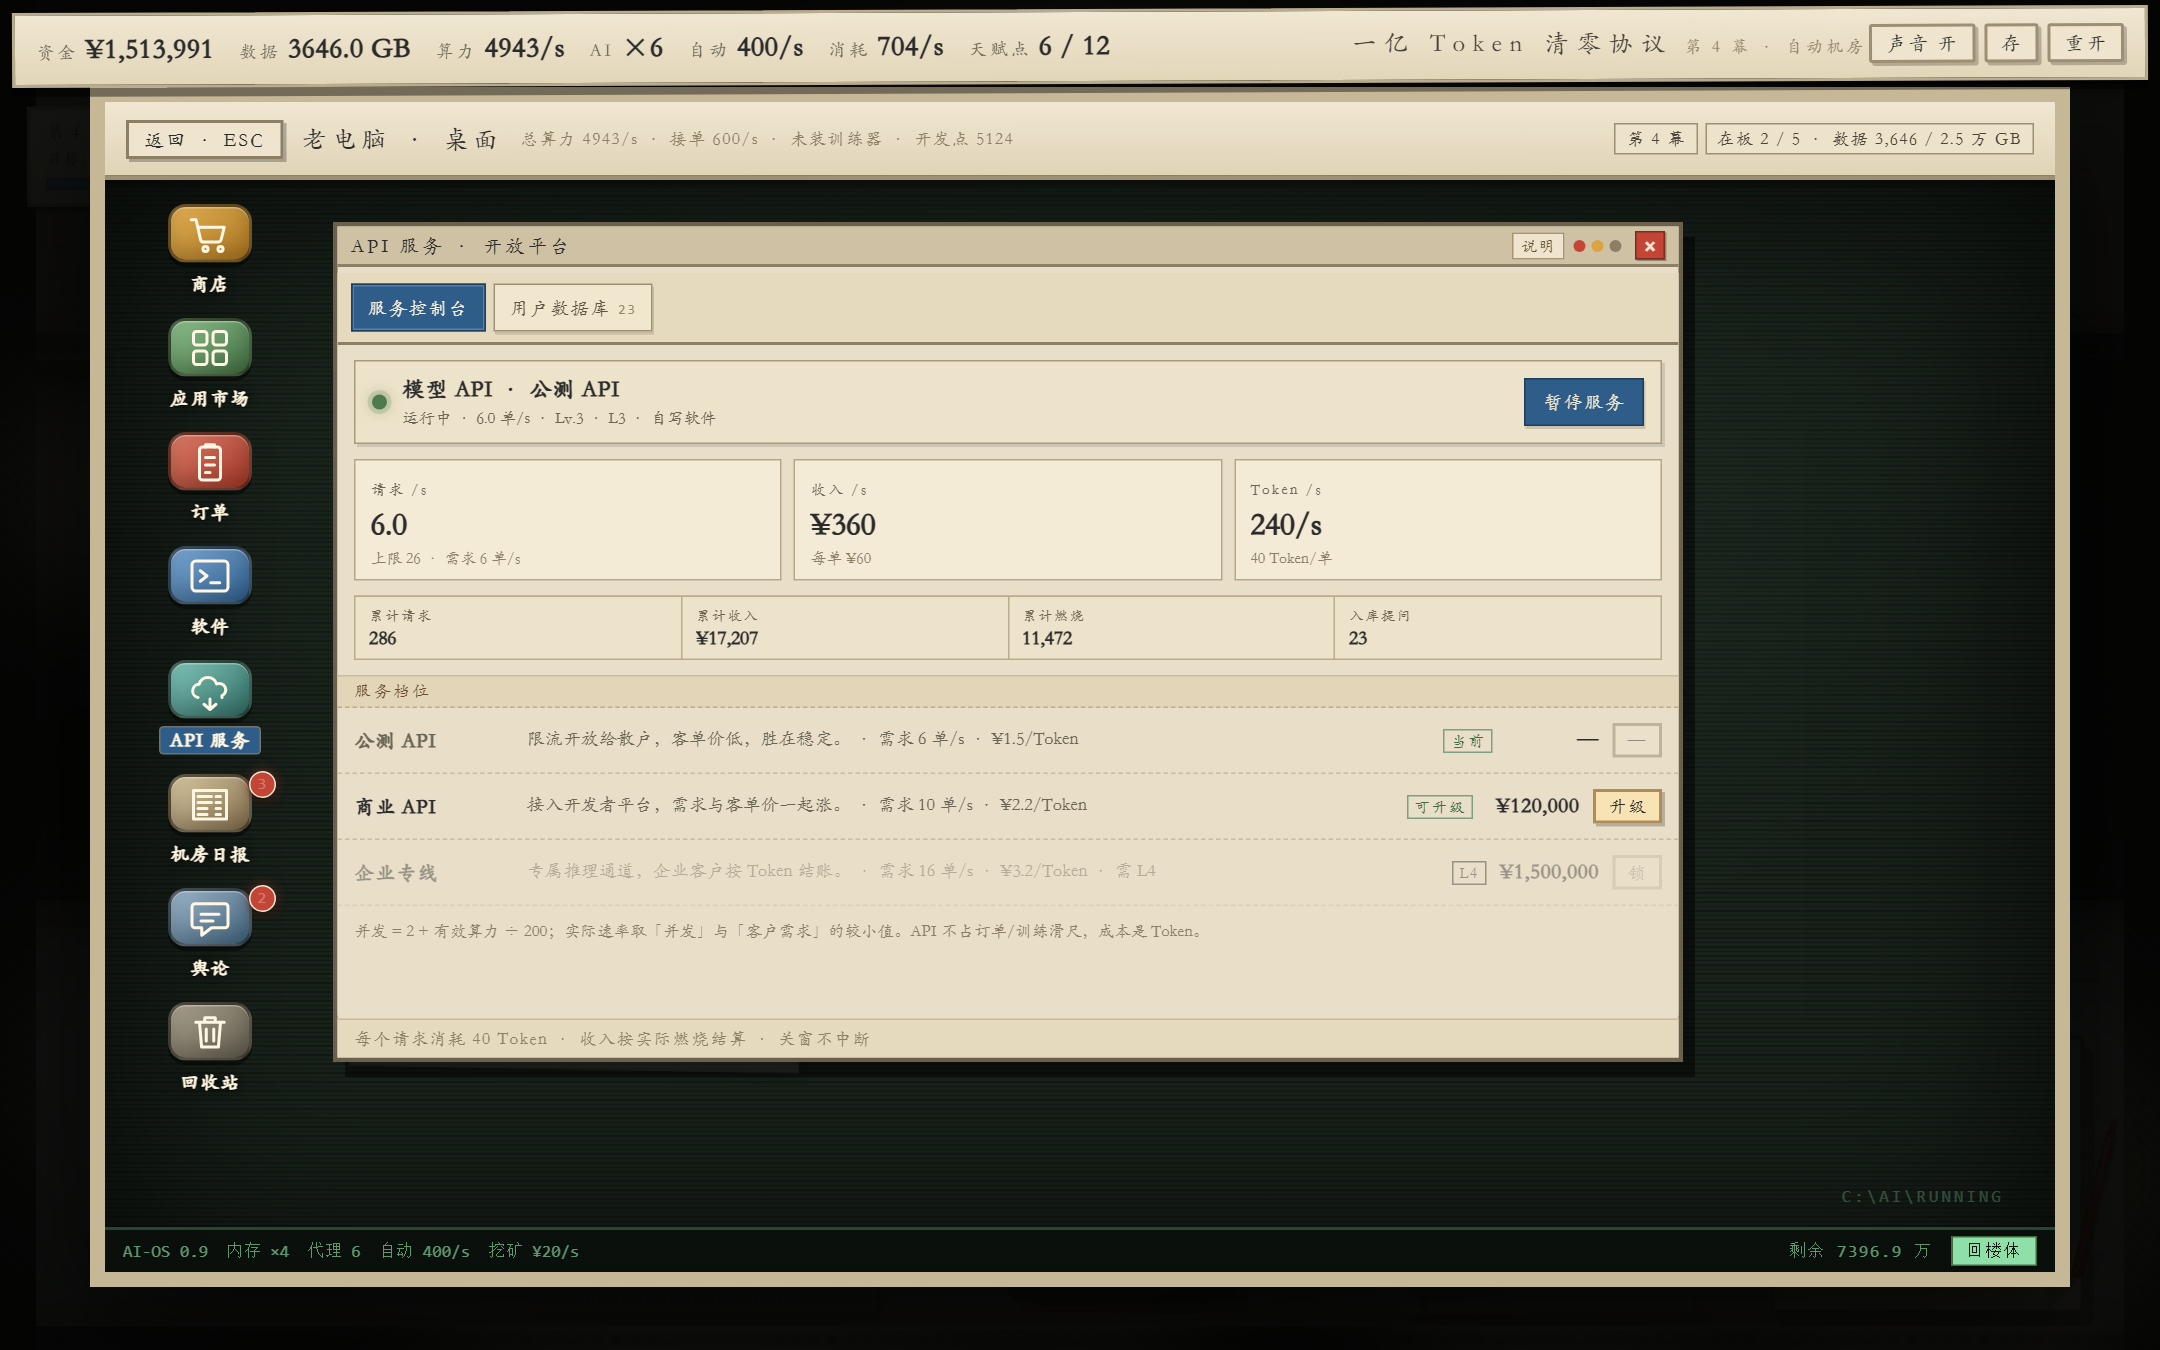
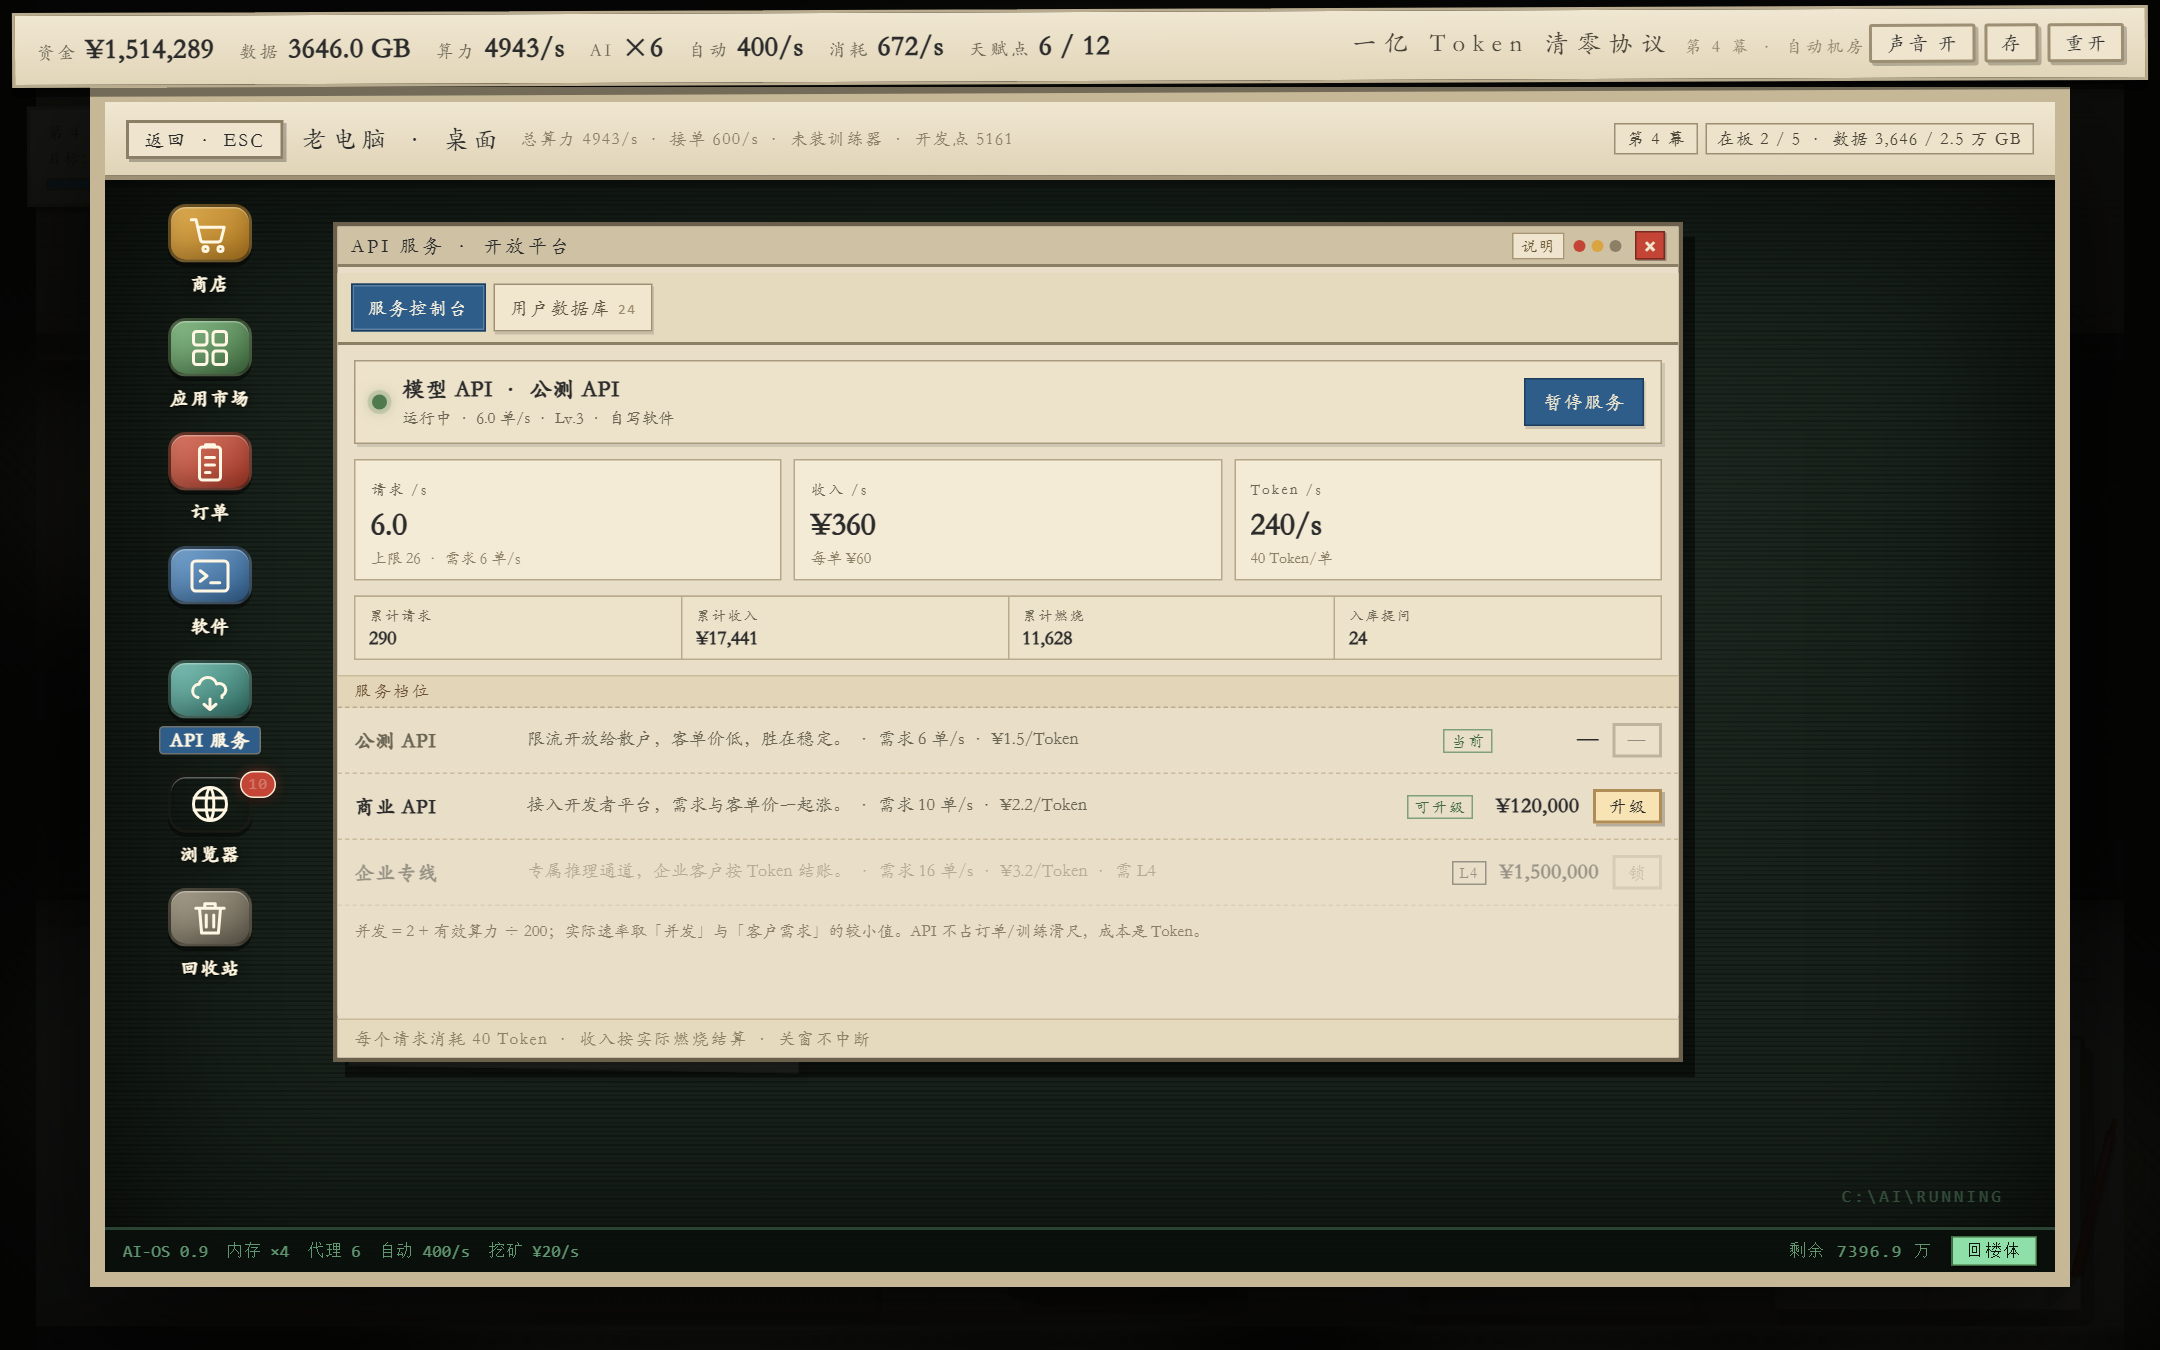
更新 README 截图并补充 NETSURF 浏览器章节

Changed region(s): [[0.062, 0.56, 0.1241, 0.8089], [0.4032, 0.0311, 0.4343, 0.0622], [0.062, 0.0311, 0.0931, 0.0622]]

diff --git a/README.md b/README.md
@@ -15,7 +15,7 @@
 核心循环：
 
 - **亲自烧**：短按老电脑，AI 跑一步、烧掉一笔 Token。
-- **进桌面**：长按老电脑 600ms 松开，进入电脑桌面，买硬件、接订单、写软件、开 API。
+- **进桌面**：长按老电脑 600ms 松开，进入电脑桌面，买硬件、接订单、写软件、开 API，逛内网浏览器。
 - **让 AI 接管**：烧得越多模型越聪明，从自写爬虫到自动采购，最后连装机都不用你动手。
 - **继续加码**：烧完 1 亿还有百亿续签、百万亿终局，以及三种结局和一个无尽模式。
 
@@ -59,10 +59,29 @@
 ### 机房的日常
 
 - **42 条世界事件**：快递延误、算力涨价、平台抽查、利好补贴……会实时影响订单、快递和燃烧效率。
-- **机房日报**：随机生成行业新闻与深度报道，标题里会出现你的 AI 名字。
-- **舆论系统**：用户评价和评分会随经营状况变化，影响订单报酬。
+- **内网浏览器**：头条、声浪、攻略、热搜榜和制作名单都收进 NETSURF，长按电脑即可打开。
+- **头条**：随机生成行业新闻与深度报道，标题里会出现你的 AI 名字。
+- **声浪**：用户评价、评分和评论会随经营状况变化，影响订单报酬；可以点赞、翻评论，也能记只存在本机的观察笔记。
 - **天赋蓝图**：用开发点点亮加成，早期四系、续签后四系，共 24 项。
 - **副机**：一台随时可点的小主机，提供常驻点击加成。
+
+### 浏览器 NETSURF
+
+桌面上的浏览器只在机房内网运行，不联网，只索引这栋楼里的页面。地址栏支持 `aios://doc/guide/hardware`、`aios://voice` 这类直达路径。
+
+- **首页**：搜索框和热搜榜，下面排着 8 个入口：头条、声浪、攻略、白嫖清单、热搜榜、制作名单、关于本作、版本说明。
+- **本地搜索**：站内页面、攻略、新闻和帖子统一建索引；结果按类型分页签，关键词高亮，点击过的结果会标灰，底部还有相关搜索。
+- **机房攻略**：5 组 10 篇，从开局、现金流、硬件装机一路讲到后期与附录；价格、礼物和软件成本等表格直接读当前数值。
+- **声浪**：三栏布局，左侧是身份、口碑和我的观察，中间是时间线，右侧是热帖、推荐关注和版规。帖子能点赞、看评论，详情页可写 120 字以内的观察笔记，点赞和笔记都不会改动口碑。
+- **制作名单**：关于本作、版本说明和彩蛋都藏在浏览器里，名单按原样署名：程序 / 文案/美术:Qoder，策划：Night_sky，R，wangagain。
+
+![NETSURF 浏览器首页](readme/10-browser-home.png)
+
+![浏览器本地搜索](readme/11-browser-search.png)
+
+![机房攻略](readme/12-browser-guide.png)
+
+![声浪三栏时间线](readme/13-browser-voice.png)
 
 ### 开放 API
 
@@ -140,13 +159,13 @@ dist/
 ├─ css/
 │  └─ style.css          # 全部界面样式与竖屏布局
 ├─ js/
-│  ├─ content.js         # 数值、文案、章节、事件、结局数据
+│  ├─ content.js         # 数值、文案、章节、事件、浏览器索引与结局数据
 │  ├─ sim.js             # 不依赖 DOM 的模拟核心
 │  ├─ scene.js           # 楼体场景与点击交互
 │  ├─ stage.js           # 场景画面绘制
 │  ├─ drag.js            # 拖拽装机器件
 │  ├─ pending.js         # 「进行中」浮层
-│  ├─ hub.js             # 桌面应用：商店、订单、软件、API、日报、舆论
+│  ├─ hub.js             # 桌面应用：商店、订单、软件、API、NETSURF 浏览器
 │  ├─ rig.js             # 机箱内部装机页
 │  ├─ delivery.js        # 快递架、拆箱与公共仓库
 │  ├─ modal.js           # 合同、礼物、结局等纸质弹窗
